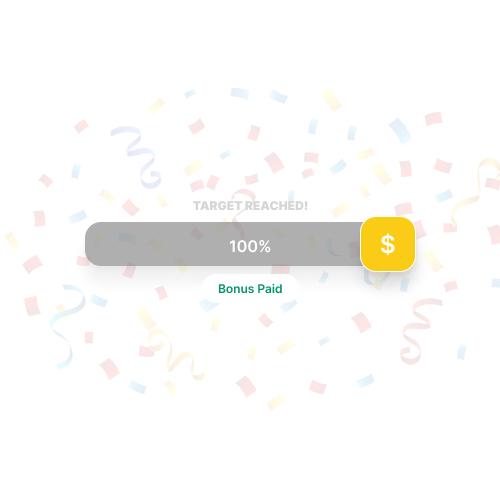
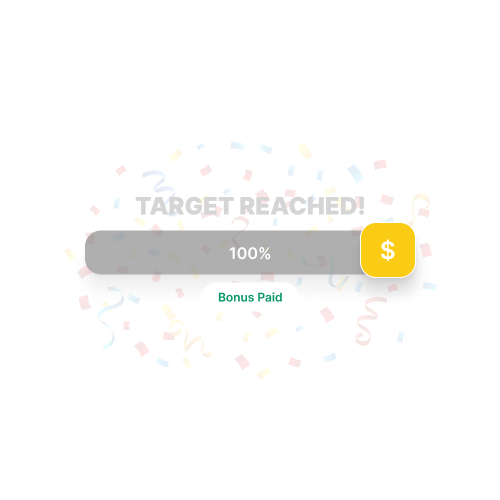
feat: sales imgs

diff --git a/src/app/sales-acceleration/page.tsx b/src/app/sales-acceleration/page.tsx
@@ -125,7 +125,7 @@ export default function SalesAccelerationPage() {
         </MotionSection>
 
         {/* Grid */}
-        <div className="section-container grid grid-cols-1 gap-3 md:grid-cols-2 lg:grid-cols-3">
+        <div className="section-container grid grid-cols-1 gap-4 md:grid-cols-2 md:px-32 lg:grid-cols-3 lg:px-48">
           {SALES_ACCELERATION_TOOLS.map((tool, index) => (
             <MotionSection
               as="div"
@@ -151,7 +151,7 @@ export default function SalesAccelerationPage() {
                 </div>
 
                 {/* 2. Image Area  */}
-                <div className="relative h-50 w-full">
+                <div className="relative h-32 w-full md:h-50">
                   <Image
                     src={tool.image}
                     alt={tool.title}

diff --git a/src/app/sales-acceleration/data/tools.ts b/src/app/sales-acceleration/data/tools.ts
@@ -39,7 +39,7 @@ export const SALES_ACCELERATION_TOOLS: SalesAccelerationTool[] = [
   {
     title: "Marketing",
     description: "Targeted campaigns that perform.",
-    image: "/paygos-hero.svg",
+    image: "/solutions/marketing.png",
     href: "/sales-acceleration/marketing",
   },
 ]
